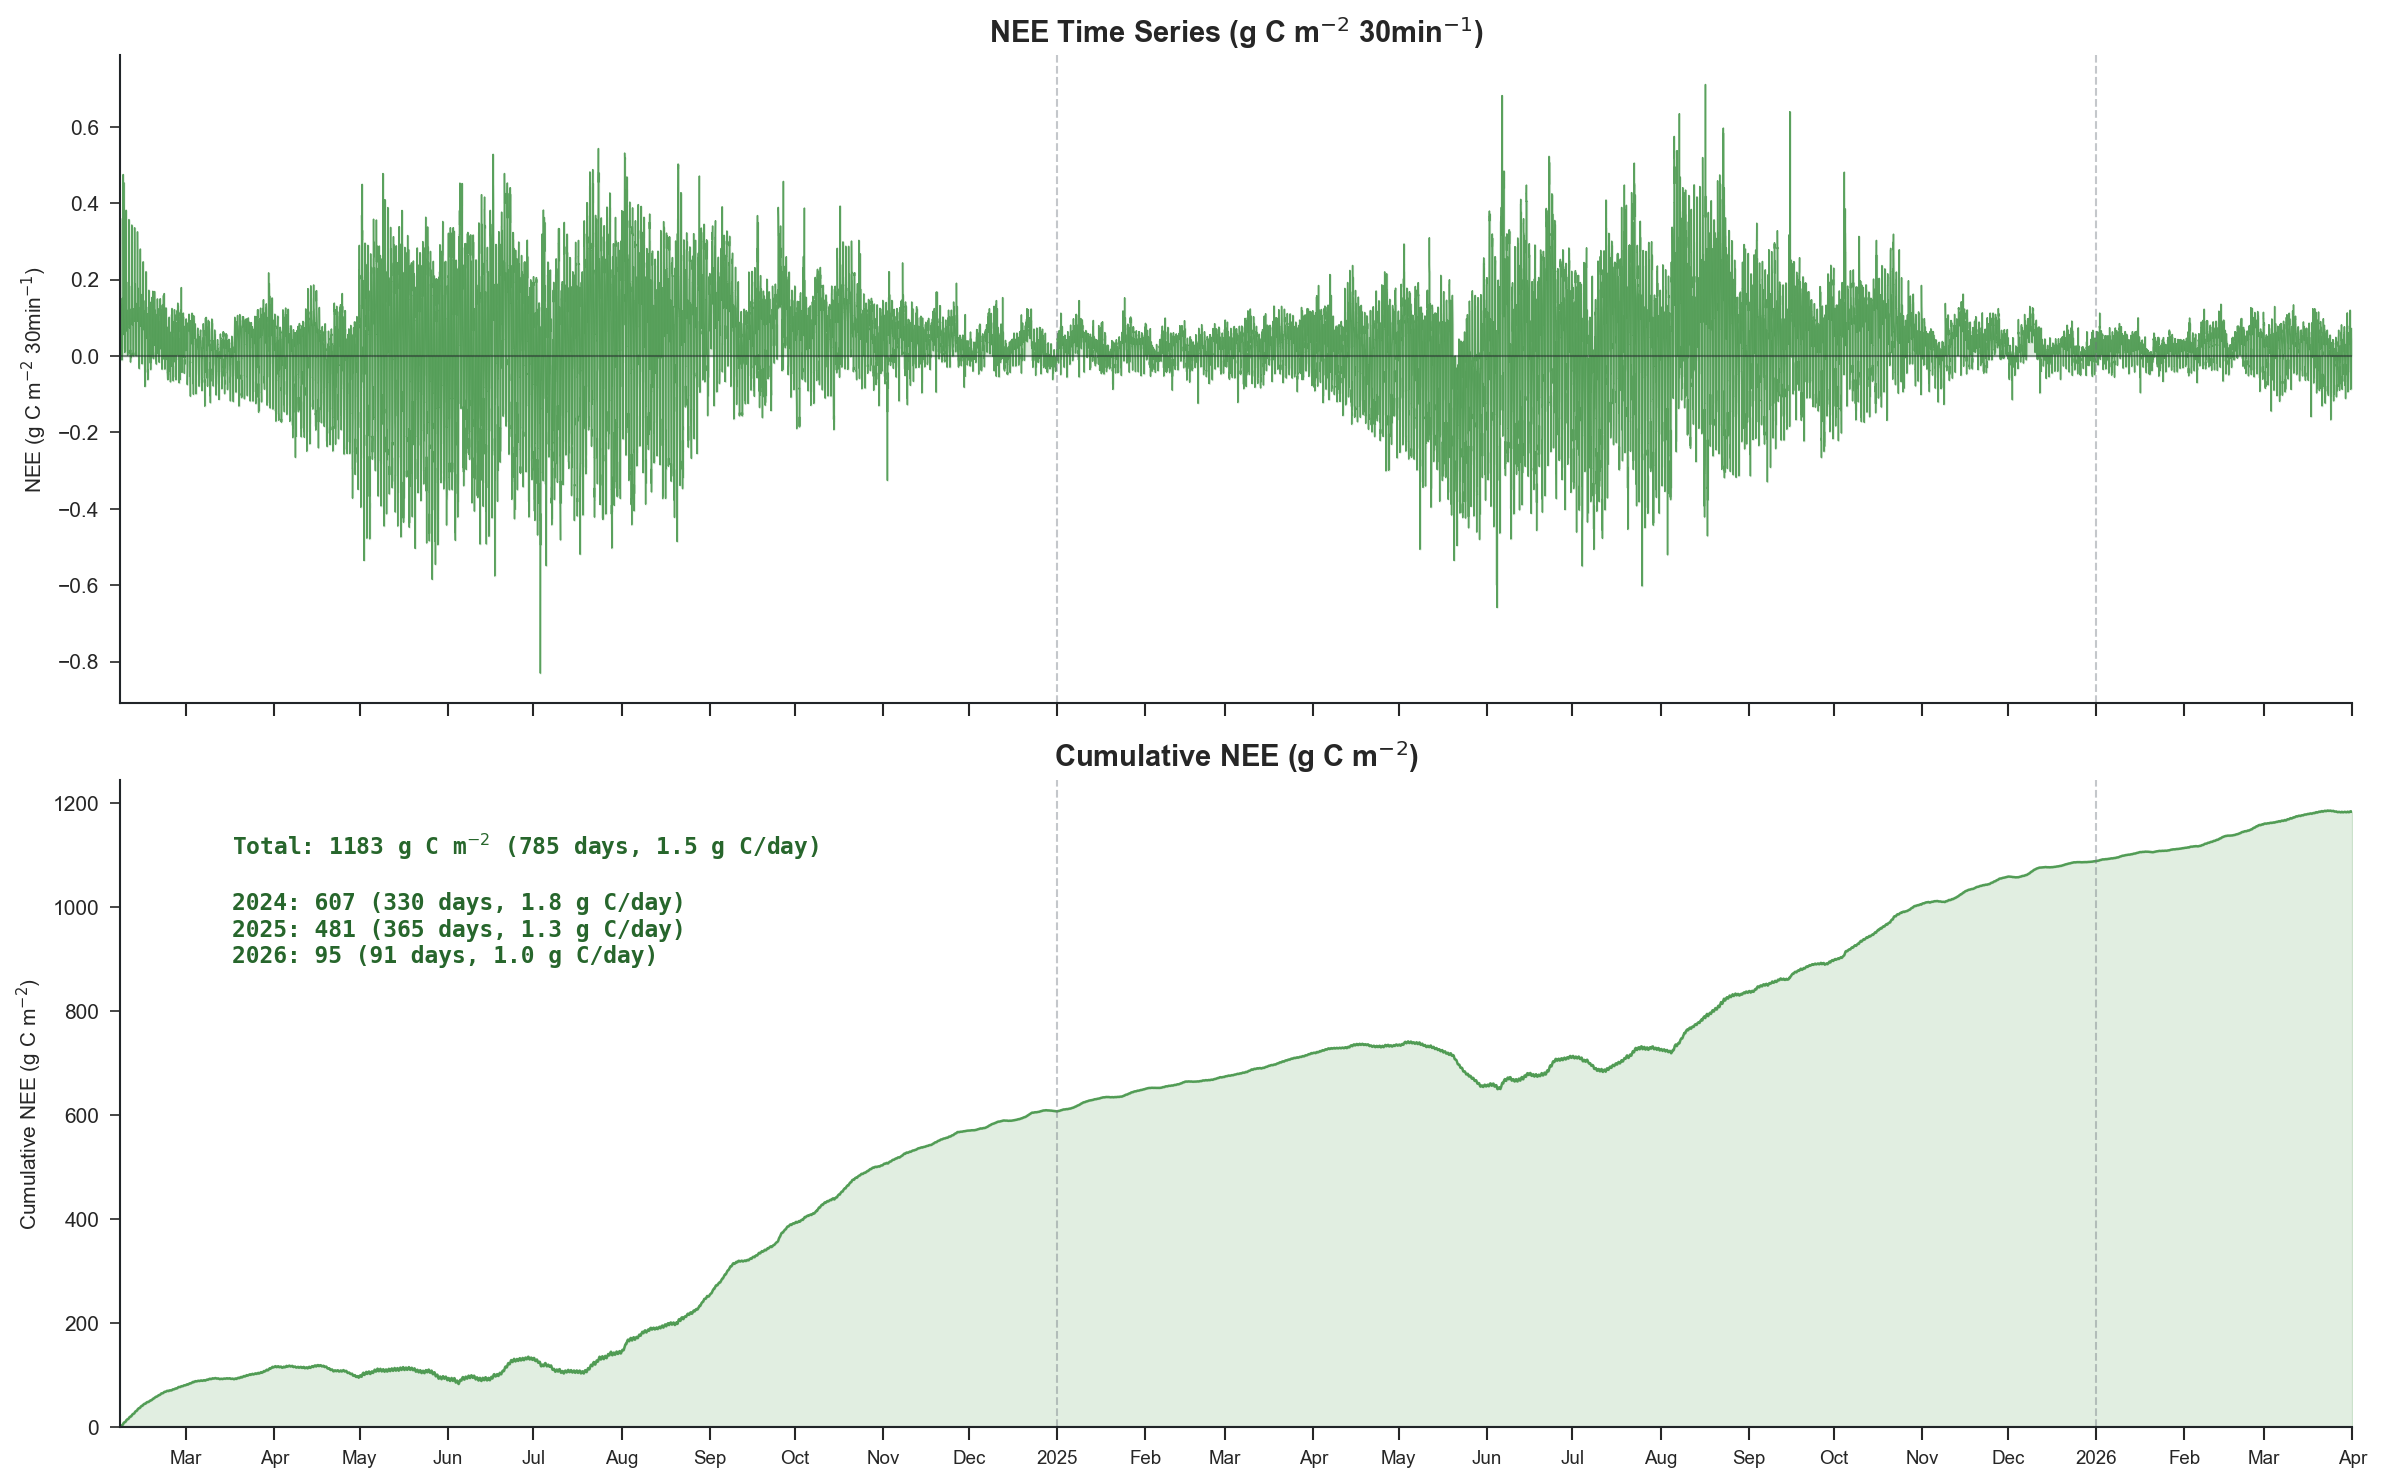
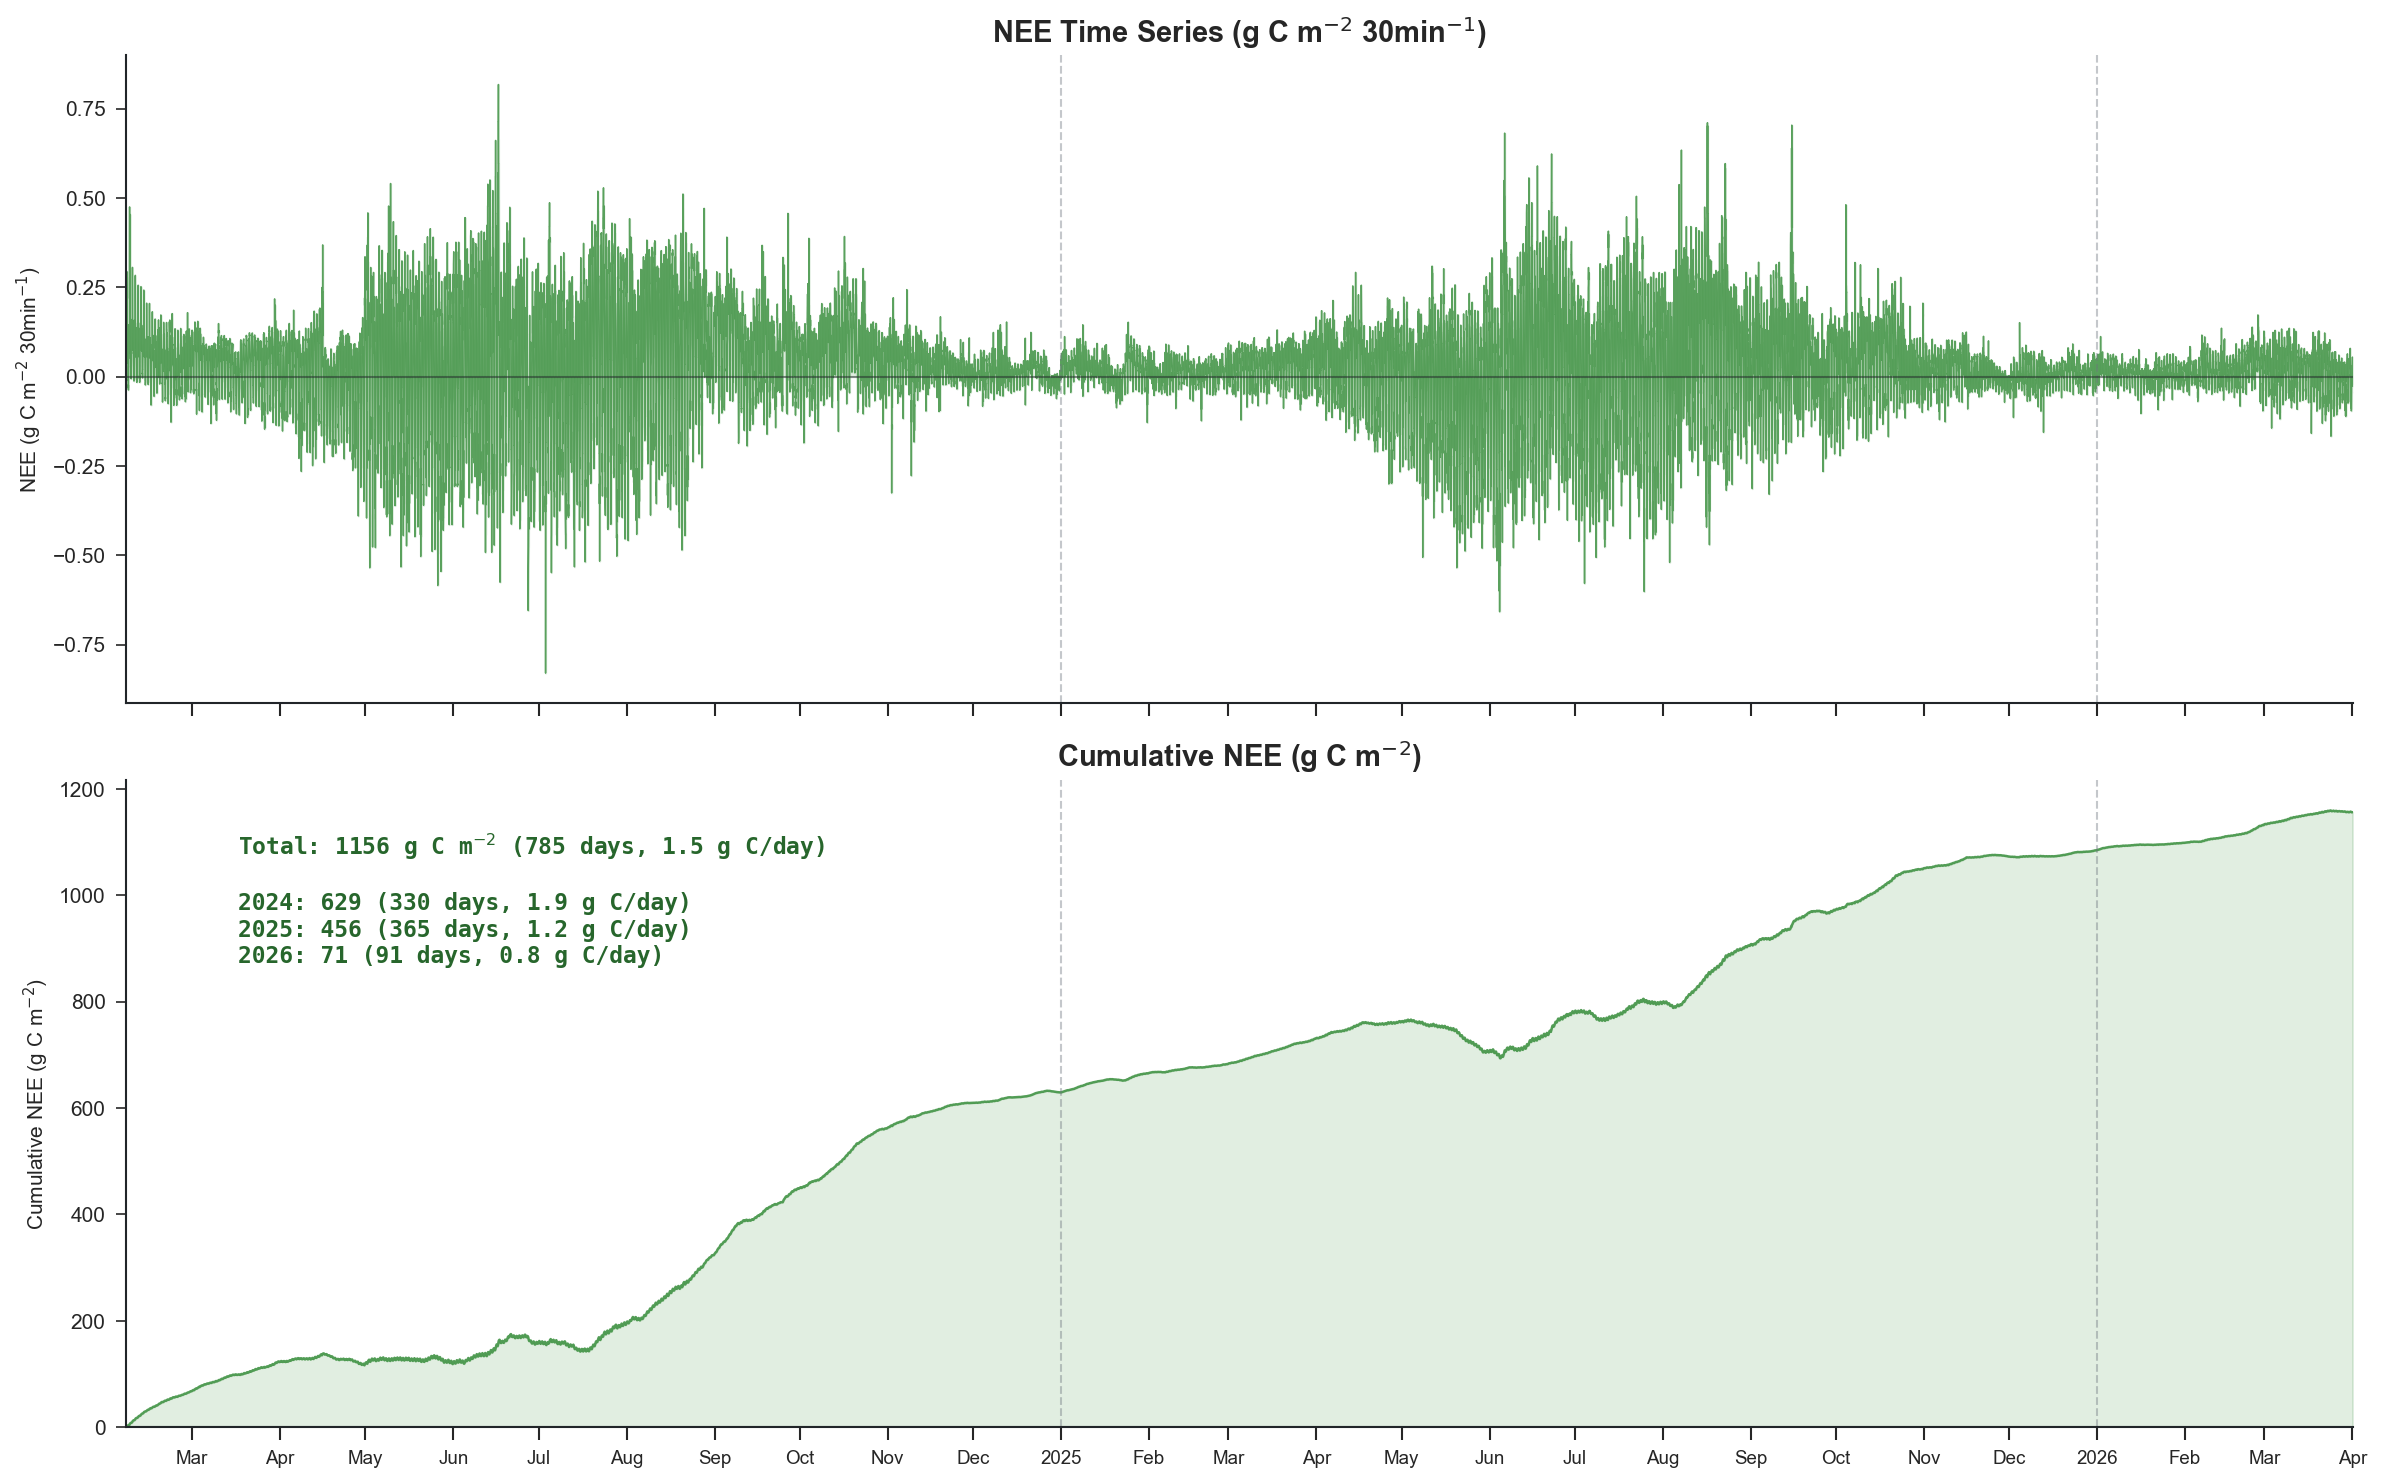
Add LE visualization script (08) with evapotranspiration conversion
- New script converts latent heat flux (W m⁻²) to ET (mm/30min)
- Uses standard latent heat formula: λ = 2.45 MJ/kg
- Generates time series plot with cumulative ET and yearly stats
- Generates diel cycle plot showing hourly ET patterns by month
- Uses blue color (#0d6efd) per plotting standards
- Update README.md with script 08 documentation

diff --git a/src/04_fluxprocessingchain_NEE.py b/src/04_fluxprocessingchain_NEE.py
@@ -246,19 +246,56 @@ for key, value in fpc.level33_qcf.items():
 # ----------------------
 FEATURES = ["TA_EP", "SW_IN_POT", "VPD_EP"]
 
+
+# # Level-4.1: Random Forest Gap-Filling with Feature Engineering (v0.91.0)
+# fpc.level41_longterm_random_forest(
+#     features=FEATURES,
+#     # Feature Engineering Parameters
+#     features_lag=[-2, -1],
+#     features_lag_stepsize=1,
+#     features_lag_exclude_cols=None,
+#     features_rolling=[6],
+#     features_rolling_exclude_cols=None,
+#     features_rolling_stats=['median', 'min', 'max'],
+#     features_diff=[1],
+#     features_diff_exclude_cols=None,
+#     features_ema=[6],  # NEW in v0.91.0: Exponential Moving Average features
+#     features_ema_exclude_cols=None,  # NEW in v0.91.0
+#     features_poly_degree=2,
+#     features_poly_exclude_cols=None,
+#     features_stl=True,
+#     features_stl_method='stl',
+#     features_stl_seasonal_period=None,
+#     features_stl_exclude_cols=None,
+#     features_stl_components=None,
+#     vectorize_timestamps=True,
+#     add_continuous_record_number=True,
+#     sanitize_timestamp=True,
+#     # Gap-Filling Parameters
+#     reduce_features=False,
+#     verbose=True,
+#     # Random Forest Hyperparameters
+#     n_estimators=100,
+#     max_depth=None,
+#     min_samples_split=10,
+#     min_samples_leaf=5,
+#     n_jobs=-1,
+#     random_state=42,
+# )
+
 # Level-4.1: XGBoost Gap-Filling with Feature Engineering (v0.91.0, optional alternative)
 fpc.level41_longterm_xgboost(
     features=FEATURES,
     # Feature Engineering Parameters (same as Random Forest for fair comparison)
-    features_lag=[-1, 1],
+    features_lag=[-2, -1],
     features_lag_stepsize=1,
     features_lag_exclude_cols=None,
-    features_rolling=[12, 24, 48],
+    features_rolling=[3, 6, 12, 24, 48],
     features_rolling_exclude_cols=None,
-    features_rolling_stats=['median', 'min', 'max'],
+    features_rolling_stats=['median', 'min', 'max', 'std', 'q25', 'q75'],
     features_diff=[1, 2],
     features_diff_exclude_cols=None,
-    features_ema=[6, 12, 24],
+    features_ema=[3, 6, 12, 24],
     features_ema_exclude_cols=None,
     features_poly_degree=2,
     features_poly_exclude_cols=None,
@@ -276,12 +313,13 @@ fpc.level41_longterm_xgboost(
     # XGBoost Hyperparameters
     n_estimators=3000,
     max_depth=6,
-    learning_rate=0.5,
+    learning_rate=0.3,
     min_child_weight=99,
     early_stopping_rounds=100,
     n_jobs=-1,
     random_state=42,
 )
+
 # Access results: fpc.level41['long_term_xgboost']['CUT_50']
 results = fpc.get_data(verbose=1)
 # Show train/test details

diff --git a/src/05_fluxprocessingchain_LE.py b/src/05_fluxprocessingchain_LE.py
@@ -250,15 +250,15 @@ FEATURES = ["TA_EP", "SW_IN_POT", "VPD_EP"]
 fpc.level41_longterm_xgboost(
     features=FEATURES,
     # Feature Engineering Parameters (same as Random Forest for fair comparison)
-    features_lag=[-1, 1],
+    features_lag=[-2, -1],
     features_lag_stepsize=1,
     features_lag_exclude_cols=None,
-    features_rolling=[12, 24, 48],
+    features_rolling=[3, 6, 12, 24, 48],
     features_rolling_exclude_cols=None,
-    features_rolling_stats=['median', 'min', 'max'],
+    features_rolling_stats=['median', 'min', 'max', 'std', 'q25', 'q75'],
     features_diff=[1, 2],
     features_diff_exclude_cols=None,
-    features_ema=[6, 12, 24],
+    features_ema=[3, 6, 12, 24],
     features_ema_exclude_cols=None,
     features_poly_degree=2,
     features_poly_exclude_cols=None,
@@ -276,7 +276,7 @@ fpc.level41_longterm_xgboost(
     # XGBoost Hyperparameters
     n_estimators=3000,
     max_depth=6,
-    learning_rate=0.5,
+    learning_rate=0.3,
     min_child_weight=99,
     early_stopping_rounds=100,
     n_jobs=-1,
